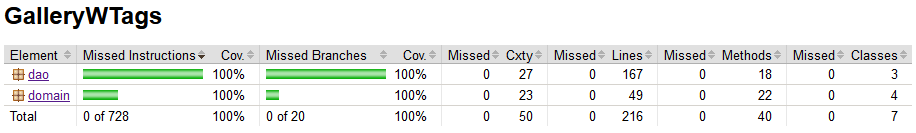
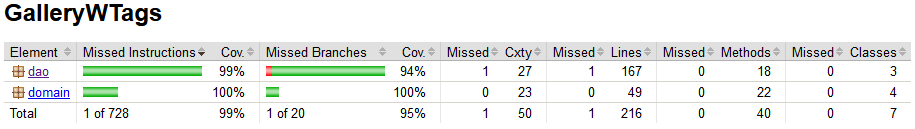
Testausdokumenttia ja testikattavuuskuvaa päivitetty

diff --git a/dokumentointi/testaus.md b/dokumentointi/testaus.md
@@ -10,7 +10,7 @@ Domain-pakkauksen, eli sovelluuslogiikkaa toteuttavien luokkien testauksen toteu
 Dao-pakkauksen, eli tietokannan käyttöä toteuttavien luokkien testauksen toteuttaa ImgDaoTest ja TagDaoTest, jotka jälleen testaavat nimiensä mukaisia luokkia hyödyntäen jälleen väliaikaista testitietokantaa.
 
 ### Testauskattavuus
-Käyttöliittymää huomioimatta testien rivi- ja haarautumakattavuus on 100%.
+Käyttöliittymää huomioimatta testien rivikattavuus on 99% ja haarautumakattavuus 95%.
 
 ![Kattavuus](https://github.com/joonaoko/ot-harjoitustyo/blob/master/dokumentointi/kuvat/testikattavuus.png)
 
